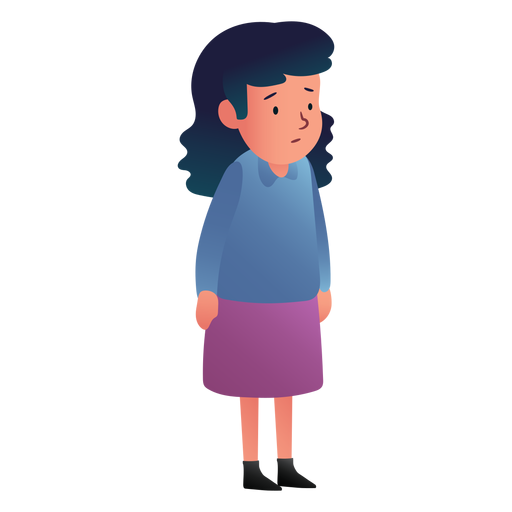
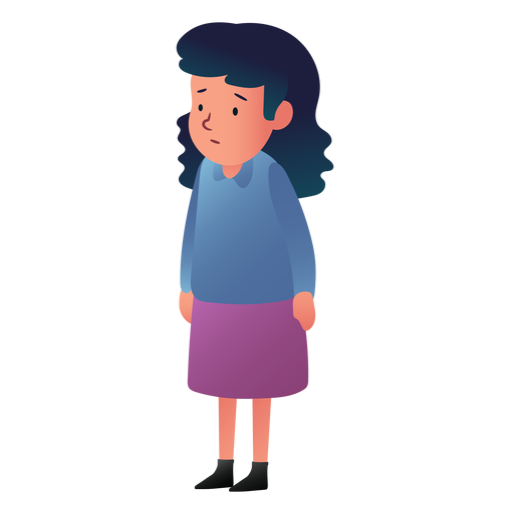
[ADD]distintos tipos de personas con distintas velocidades y distintas fotos

Changed region(s): [[0.3438, 0.0312, 0.6562, 0.9688]]

diff --git a/Flappy/script/interaccionHumanos.js b/Flappy/script/interaccionHumanos.js
@@ -22,6 +22,9 @@ class Humano{
     obtenerDiv(){
         return this.div;
     }
+    obtenerVelocidad(){
+        return 100-this.velocidad;
+    }
 }
 
 
@@ -37,10 +40,10 @@ function comprobarGenerarHumanos(){
 }
 function unHumanoNuevo(){
     let rect = pantalla.getBoundingClientRect(); //TODO usar la velocidad y la aparicion
-    let humano = new Humano(randomIntFromInterval(45,55),"url(../img/humano/caminante.png","url(../img/humano/caminante2.png",randomIntFromInterval(1,2),document.createElement("div"));
+    let humano = tipoDeHumano();
     humano.darClase();
     humano.obtenerDiv().style.top=rect.bottom-60+"px";
-    if((Math.floor((Math.random() * 2) + 1)%2)==0){
+    if(humano.aparicion==1){
         humano.obtenerDiv().style.left=rect.left+"px";
         humano.obtenerDiv().style.backgroundImage=humano.fondoHaciaDerecha;
     }else{
@@ -48,35 +51,64 @@ function unHumanoNuevo(){
         humano.obtenerDiv().style.backgroundImage=humano.fondoHaciaIzquierda;
     }
     pantalla.appendChild(humano.obtenerDiv());
-    movimientoHumanos(humano.obtenerDiv());
+    movimientoHumanos(humano);
     listaHumanos.push(humano);
 }
+
+function tipoDeHumano(){
+    let numeroAleatorio = randomIntFromInterval(1,4);
+    let humano;
+    switch(numeroAleatorio){
+        case 1:
+            humano = new Humano(randomIntFromInterval(45,65),"url(../img/humano/caminante.png","url(../img/humano/caminante2.png",randomIntFromInterval(1,2),document.createElement("div"));
+            break;
+        case 2:
+            humano = new Humano(randomIntFromInterval(35,45),"url(../img/humano/chicaTriste.png","url(../img/humano/chicaTriste2.png",randomIntFromInterval(1,2),document.createElement("div"));
+            break;
+        case 3:
+            humano = new Humano(randomIntFromInterval(75,80),"url(../img/humano/corredor.png","url(../img/humano/corredor2.png",randomIntFromInterval(1,2),document.createElement("div"));
+            break;
+        case 4:
+            humano = new Humano(randomIntFromInterval(45,55),"url(../img/humano/caminante.png","url(../img/humano/caminante2.png",randomIntFromInterval(1,2),document.createElement("div"));
+            break;
+        case 5:
+            humano = new Humano(randomIntFromInterval(45,55),"url(../img/humano/caminante.png","url(../img/humano/caminante2.png",randomIntFromInterval(1,2),document.createElement("div"));
+            break;    
+    }
+    return humano;
+}
+
 function movimientoHumanos(humano){
-    movimientoDerechaHumano(humano);
+    if(humano.aparicion==1){
+        movimientoDerechaHumano(humano);
+    }else{
+        movimientoIzquierdaHumano(humano);
+    }
+    
 }
 
 function movimientoDerechaHumano(humano){
     let rect = pantalla.getBoundingClientRect();
     let intervaloDerecha;
     intervaloDerecha = setInterval(() => {
-        humano.style.left=(parseInt(humano.style.left)+Number(5)) + "px";
-        if((parseInt(humano.style.left)>rect.right-50)){
+        humano.obtenerDiv().style.left=(parseInt(humano.obtenerDiv().style.left)+Number(5)) + "px";
+        if((parseInt(humano.obtenerDiv().style.left)>rect.right-50)){
             clearInterval(intervaloDerecha);
             movimientoIzquierdaHumano(humano);
         }
-    }, 50);
+    }, humano.obtenerVelocidad());
 }
 
 function movimientoIzquierdaHumano(humano){
     let rect = pantalla.getBoundingClientRect();
     let intervaloIzquierda;
     intervaloIzquierda = setInterval(() => {
-        humano.style.left=(parseInt(humano.style.left)-Number(5)) + "px";
-        if(parseInt(humano.style.left)<rect.left+10){
+        humano.obtenerDiv().style.left=(parseInt(humano.obtenerDiv().style.left)-Number(5)) + "px";
+        if(parseInt(humano.obtenerDiv().style.left)<rect.left+10){
             clearInterval(intervaloIzquierda);
             movimientoDerechaHumano(humano);
         }
-    }, 50);
+    },  humano.obtenerVelocidad());
 }
 
 

diff --git a/Flappy/script/interaccionBombas.js b/Flappy/script/interaccionBombas.js
@@ -48,8 +48,10 @@ function humanoMuerto(bomba){
 
 function comprobarSiMuerto(bomba){
     let muertesEstaBomba=0;
+    let div;
     for(let i=0; i<listaHumanos.length; i++){
         if(parseInt(listaHumanos[i].obtenerDiv().style.left)>parseInt(bomba.style.left)-Number(100) && parseInt(listaHumanos[i].obtenerDiv().style.left)<parseInt(bomba.style.left)+Number(100)){
+            listaHumanos[i].obtenerDiv().remove();
             delete listaHumanos[i];
             listaHumanos.splice(i,1);
             puntuacionUnMuerto();
@@ -63,7 +65,6 @@ function puntuacionUnMuerto(){
     let puntuacionNumero = parseInt(puntuacionSpan.innerText);
     puntuacion.innerText=puntuacionNumero+Number(100); 
     if(parseInt(puntuacionSpan.innerText)%1000==0){
-        console.log(parseInt(puntuacionSpan.innerText));
         aumentoDificultad();
     }   
 }
